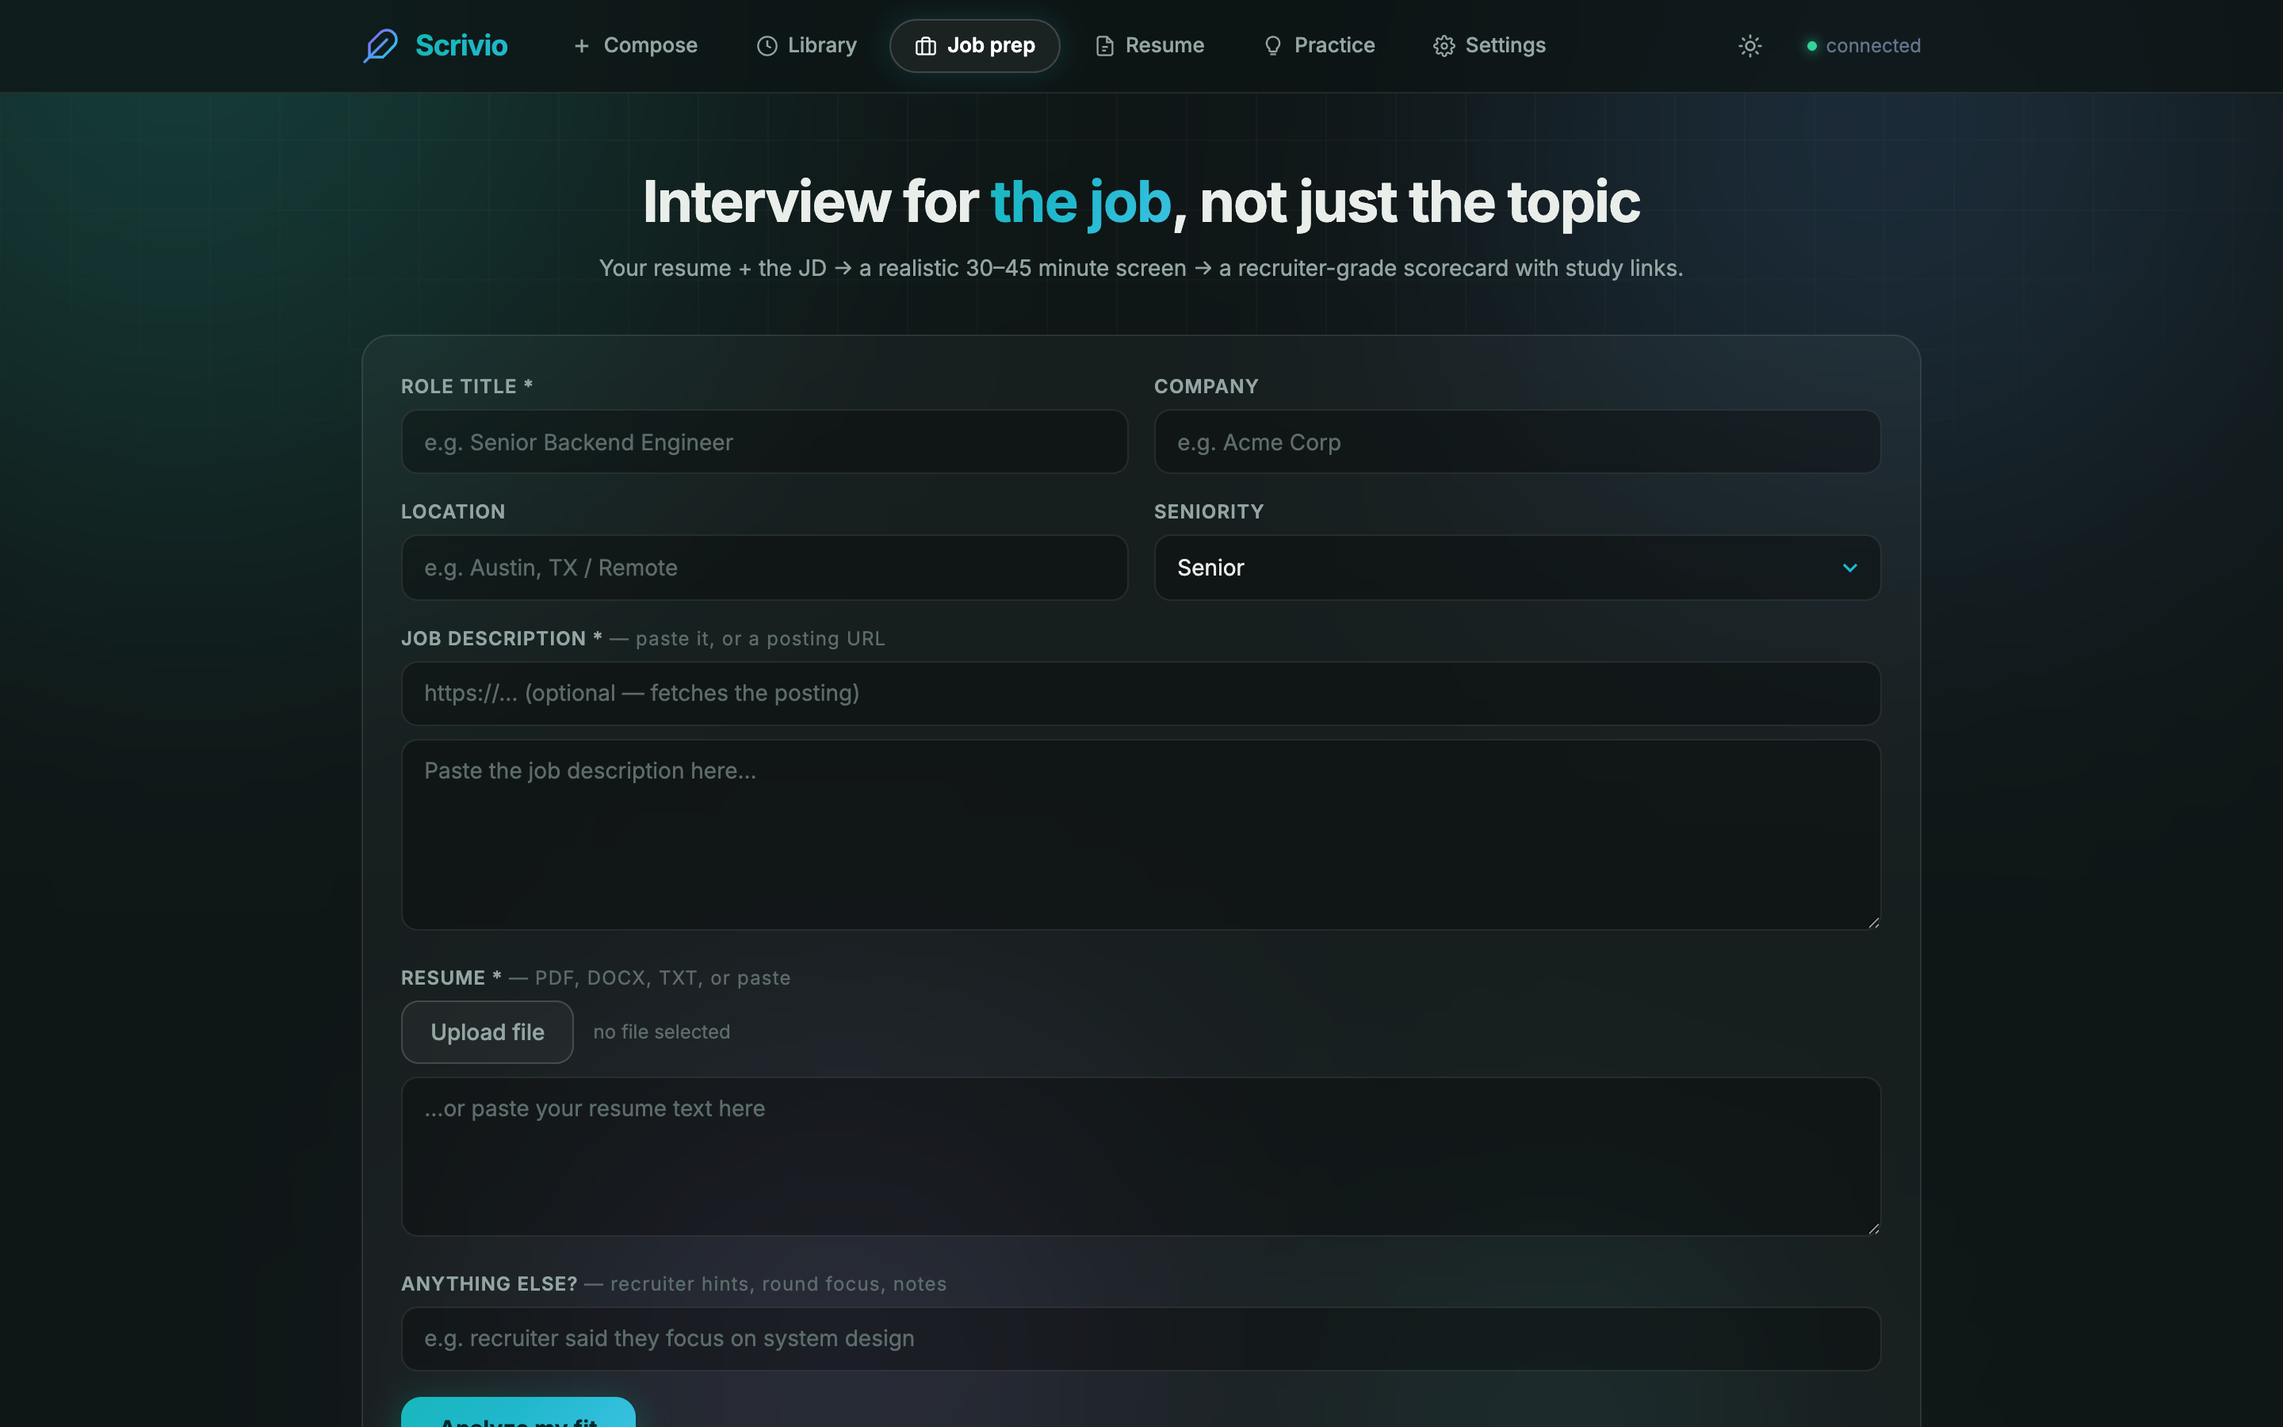
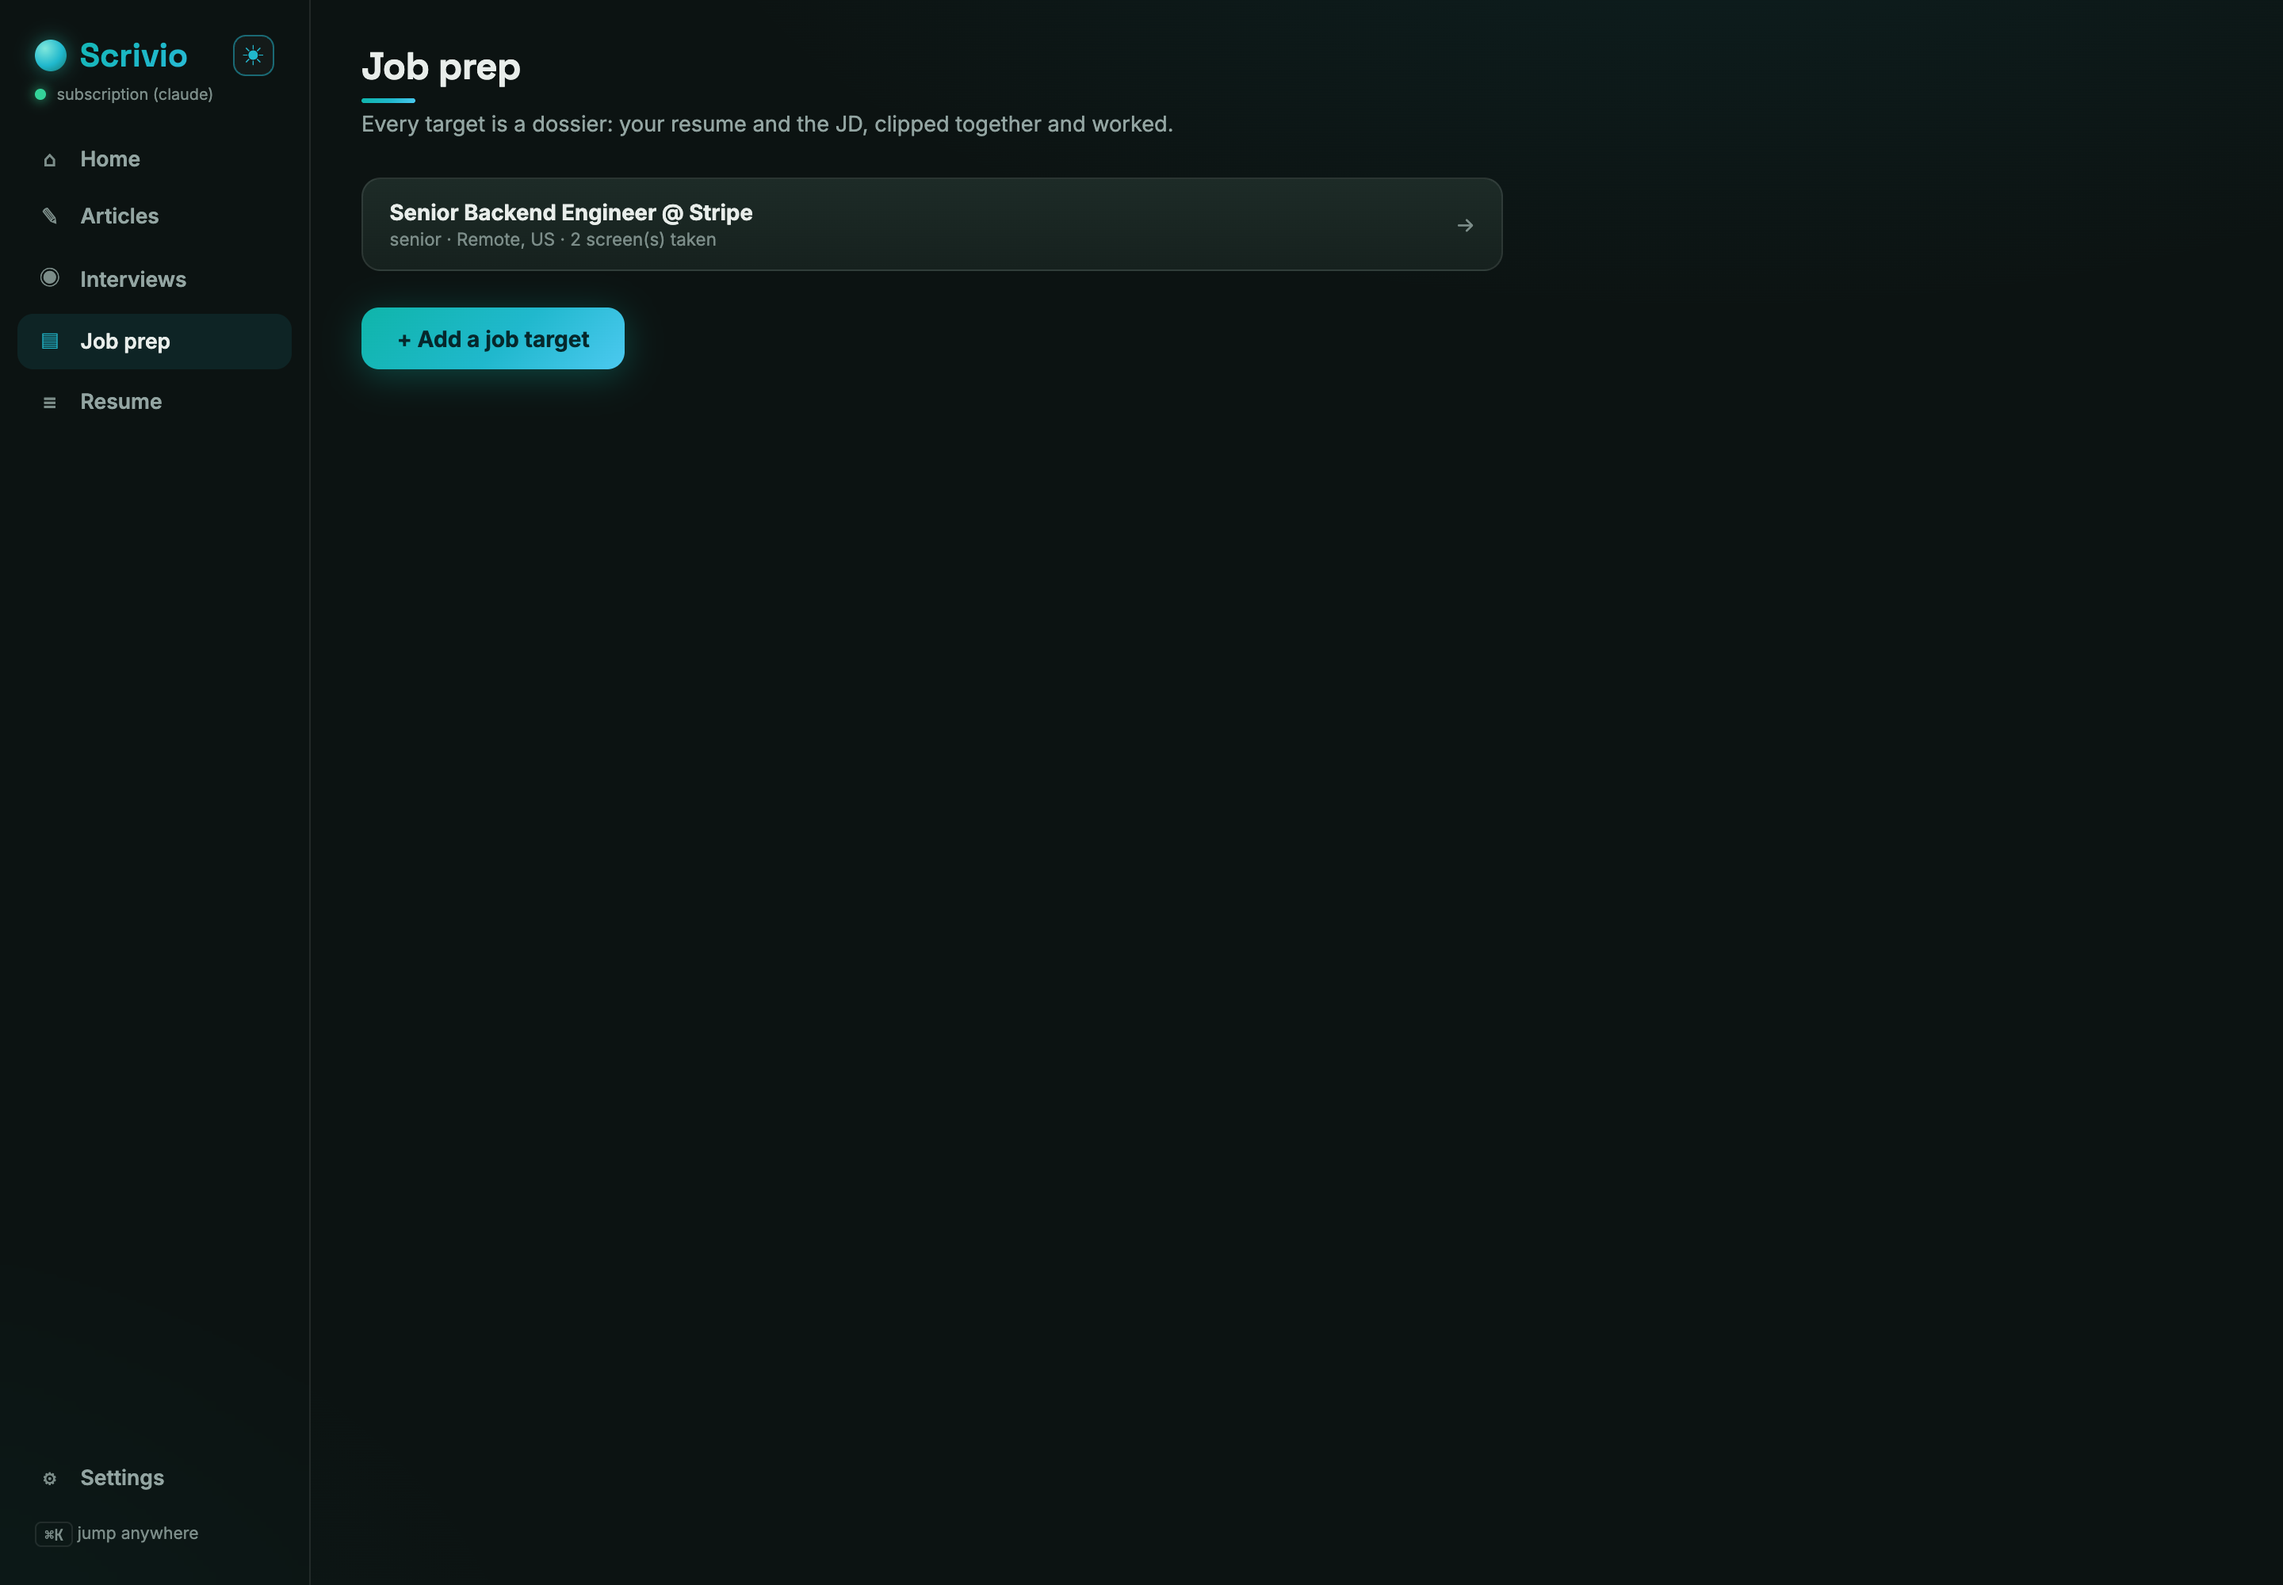
MIT license, current screenshots, and a script that keeps them current
The README showed a UI that no longer exists. All five screenshots are
recaptured from a running instance against real saved work, and
scripts/capture_screenshots.py drives the app with Playwright (through
the Chrome already on the machine, not a 150MB download) so the next UI
change is one command away from accurate pictures rather than a chore
nobody does.

The prose caught up too: the article studio section documents citation
integrity, and the resume section documents the parts that actually
distinguish it now, the paper as the interface, notes anchored to the
line they question, the number-invention guard, and the gate that keeps
a half-finished resume from being packaged.

Licensed MIT, per the owner's choice, with a note that the honesty
guarantees are the point: fork it and keep them working or drop the
claim. Contributing section states the house rule the codebase has
earned the hard way, that every honesty promise gets a deterministic
guard and a test rather than a prompt.

diff --git a/scripts/capture_screenshots.py b/scripts/capture_screenshots.py
@@ -1,0 +1,98 @@
+"""Capture the README screenshots from the running app.
+
+Screenshots go stale faster than prose, and a README showing a UI that no
+longer exists is worse than one with no pictures. This drives the real
+app against real saved work, so re-running it after a UI change is the
+whole maintenance story.
+
+    python -m uvicorn api.server:app --port 8899   # in another shell
+    python scripts/capture_screenshots.py
+
+Add --light for the light-theme variants.
+"""
+from __future__ import annotations
+
+import argparse
+import sys
+from pathlib import Path
+
+from playwright.sync_api import sync_playwright
+
+BASE = "http://localhost:8899"
+OUT = Path(__file__).resolve().parent.parent / "docs"
+VIEWPORT = {"width": 1440, "height": 1000}
+
+
+def settle(page, ms: int = 1200) -> None:
+    page.wait_for_timeout(ms)
+
+
+def shot(page, name: str) -> None:
+    OUT.mkdir(exist_ok=True)
+    page.screenshot(path=str(OUT / f"{name}.png"))
+    print(f"  wrote docs/{name}.png")
+
+
+def capture(theme: str) -> None:
+    suffix = "" if theme == "dark" else "-light"
+    with sync_playwright() as p:
+        # Drive the Chrome already on the machine: Playwright's own
+        # bundled browser is a 150MB download for no visual difference.
+        browser = p.chromium.launch(channel="chrome")
+        page = browser.new_page(viewport=VIEWPORT, device_scale_factor=2)
+        page.goto(f"{BASE}/#/floor")
+        settle(page)
+        # The toggle persists in localStorage, so set the theme once.
+        current = page.evaluate("document.documentElement.dataset.theme")
+        if current != theme:
+            page.click(".theme-btn")
+            settle(page, 500)
+
+        print(f"{theme} theme:")
+        shot(page, f"home{suffix}")
+
+        page.goto(f"{BASE}/#/newsroom")
+        settle(page)
+        shot(page, f"article-studio{suffix}")
+
+        page.goto(f"{BASE}/#/interview")
+        settle(page)
+        shot(page, f"topic-practice{suffix}")
+
+        page.goto(f"{BASE}/#/job")
+        settle(page)
+        shot(page, f"job-prep{suffix}")
+
+        # The resume desk's flagship view is the tailored paper with its
+        # honesty notes, which lives behind two clicks rather than a URL.
+        page.goto(f"{BASE}/#/desk")
+        settle(page)
+        opened = page.query_selector("//button[text()='Open']")
+        if opened:
+            opened.click()
+            settle(page, 2200)
+            tailor = page.query_selector("//button[contains(., 'Tailor')]")
+            if tailor and not tailor.is_disabled():
+                tailor.click()
+                settle(page, 1500)
+                note = page.query_selector(".score-band button")
+                if note:
+                    note.click()          # open the first honesty note
+                    settle(page, 900)
+        shot(page, f"resume-studio{suffix}")
+
+        browser.close()
+
+
+def main() -> int:
+    parser = argparse.ArgumentParser()
+    parser.add_argument("--light", action="store_true", help="also capture light theme")
+    args = parser.parse_args()
+    capture("dark")
+    if args.light:
+        capture("light")
+    return 0
+
+
+if __name__ == "__main__":
+    sys.exit(main())

diff --git a/README.md b/README.md
@@ -19,6 +19,7 @@ Type a topic, get a sourced technical article:
 - **Docs-first research** — resolves the official documentation domains for your topic (Kafka → kafka.apache.org) and ranks them above blogs and Q&A forums by trust tier
 - **Verify-before-draft** — every claim is checked against fetched evidence *before* a word of prose is written; unsupported claims are dropped, not published
 - **Editorial pipeline** — plan → draft with inline citations → editor review → targeted revision → level compilation (basic/intermediate/advanced) → voice polish → final critic gate
+- **Citation integrity** — versioned documentation is collapsed to one entry per page at its newest release, so a single doc cannot appear three times as three references, and a lone hit on an old release is re-fetched at the current one. User-hosted pages do not qualify as documentation, which keeps a personal blog from outranking the official reference
 - **Mermaid diagrams**, numbered citations with a Sources section, resumable runs served from a stage cache
 
 ### 🎤 Topic practice
@@ -50,7 +51,21 @@ Upload or paste your resume; get a report you can argue with, then a rewrite you
 
 - **Explainable ATS score, not a magic number** — a weighted checklist computed in plain Python (contact info placement, standard headers, quantified bullets, date consistency, single-column parse safety, stuffing detection…), each row showing exactly why it passed or failed. With a JD attached (paste, URL, or a saved job target from Job prep), a deterministic **keyword-match** percentage joins the score: 70% checks + 30% coverage
 - **Structured, not a text blob** — the resume is extracted once into the [JSON Resume](https://jsonresume.org) open standard (the architecture lesson borrowed from [Reactive Resume](https://github.com/AmruthPillai/Reactive-Resume)); every check, edit, and export operates on that structure. Import an existing `resume.json`, export to **PDF (what application portals want), Word (.docx), Markdown, or JSON Resume** — the JSON round-trips into Reactive Resume and the rest of that ecosystem
-- **Honest tailoring is the whole point** — the rewrite reorders, rephrases, and surfaces your *existing* experience in the JD's vocabulary, with a per-field change log (`work[0].highlights[2]: …why…`). It will not invent employers, titles, dates, degrees, or skills: missing metrics become `[METRIC]` placeholders for you to fill, unclaimable keywords are listed as *"cannot honestly claim"*, and a deterministic post-guard strips any invention a model might sneak through — employers, titles, and dates must pass byte-identical
+- **Honest tailoring is the whole point** — the rewrite reorders, rephrases, and surfaces your *existing* experience in the JD's vocabulary. It will not invent employers, titles, dates, degrees, or skills: missing metrics become `[METRIC]` placeholders for you to fill, unclaimable keywords are listed as *"cannot honestly claim"*, and deterministic post-guards strip any invention a model sneaks through. Employers, titles, and dates must pass byte-identical, and **any number that came from neither your resume nor you is reverted**, with a note naming the figure it refused
+- **The paper is the interface** — findings are drawn *on* the resume, not in a report beside it. Teal marks are edits (hover for what changed and why); amber marks are honesty notes anchored to the exact line they question. Click one and answer it in your own words, and the line turns teal. Every pass reports its own score delta, so a fix that does not move the score says so
+- **Nothing ships half-finished** — the packaging button stays disabled while `[METRIC]` placeholders or unsaved edits remain, and every change is one Undo away
+
+---
+
+## Screenshots
+
+The images above are captured from a running instance, so they stay honest
+about what the app currently looks like:
+
+```bash
+python -m uvicorn api.server:app --port 8899   # in another shell
+python scripts/capture_screenshots.py          # --light for light theme too
+```
 
 ---
 
@@ -168,3 +183,25 @@ npm run dev                              # or hot-reload on :5180, proxying the 
 ```
 
 `/studio` and `/desk` stay as aliases for old bookmarks. The retired single-file UI is parked at `/classic` for one release; without a `web/dist` build on disk the server falls back to serving it at `/`.
+
+---
+
+## License
+
+MIT. See [LICENSE](LICENSE). Use it, fork it, ship it commercially: keep the
+copyright notice and it is yours to build on.
+
+The honesty guarantees are the point of this project, so if you fork it,
+keep them working or drop the claim. A resume tool that invents a metric is
+worse than no tool.
+
+## Contributing
+
+Issues and pull requests are welcome. Two house rules the codebase holds to:
+
+- **Every honesty promise gets a deterministic guard, not a prompt.** Prompt
+  discipline has been measured failing here repeatedly (ignored word caps,
+  misfiled warnings, invented numbers). If a rule matters, enforce it in
+  Python and cover it with a test.
+- **Run the suite before opening a PR:** `python -m pytest -q` (429 tests,
+  no API keys or network needed; the mock provider covers every LLM path).
